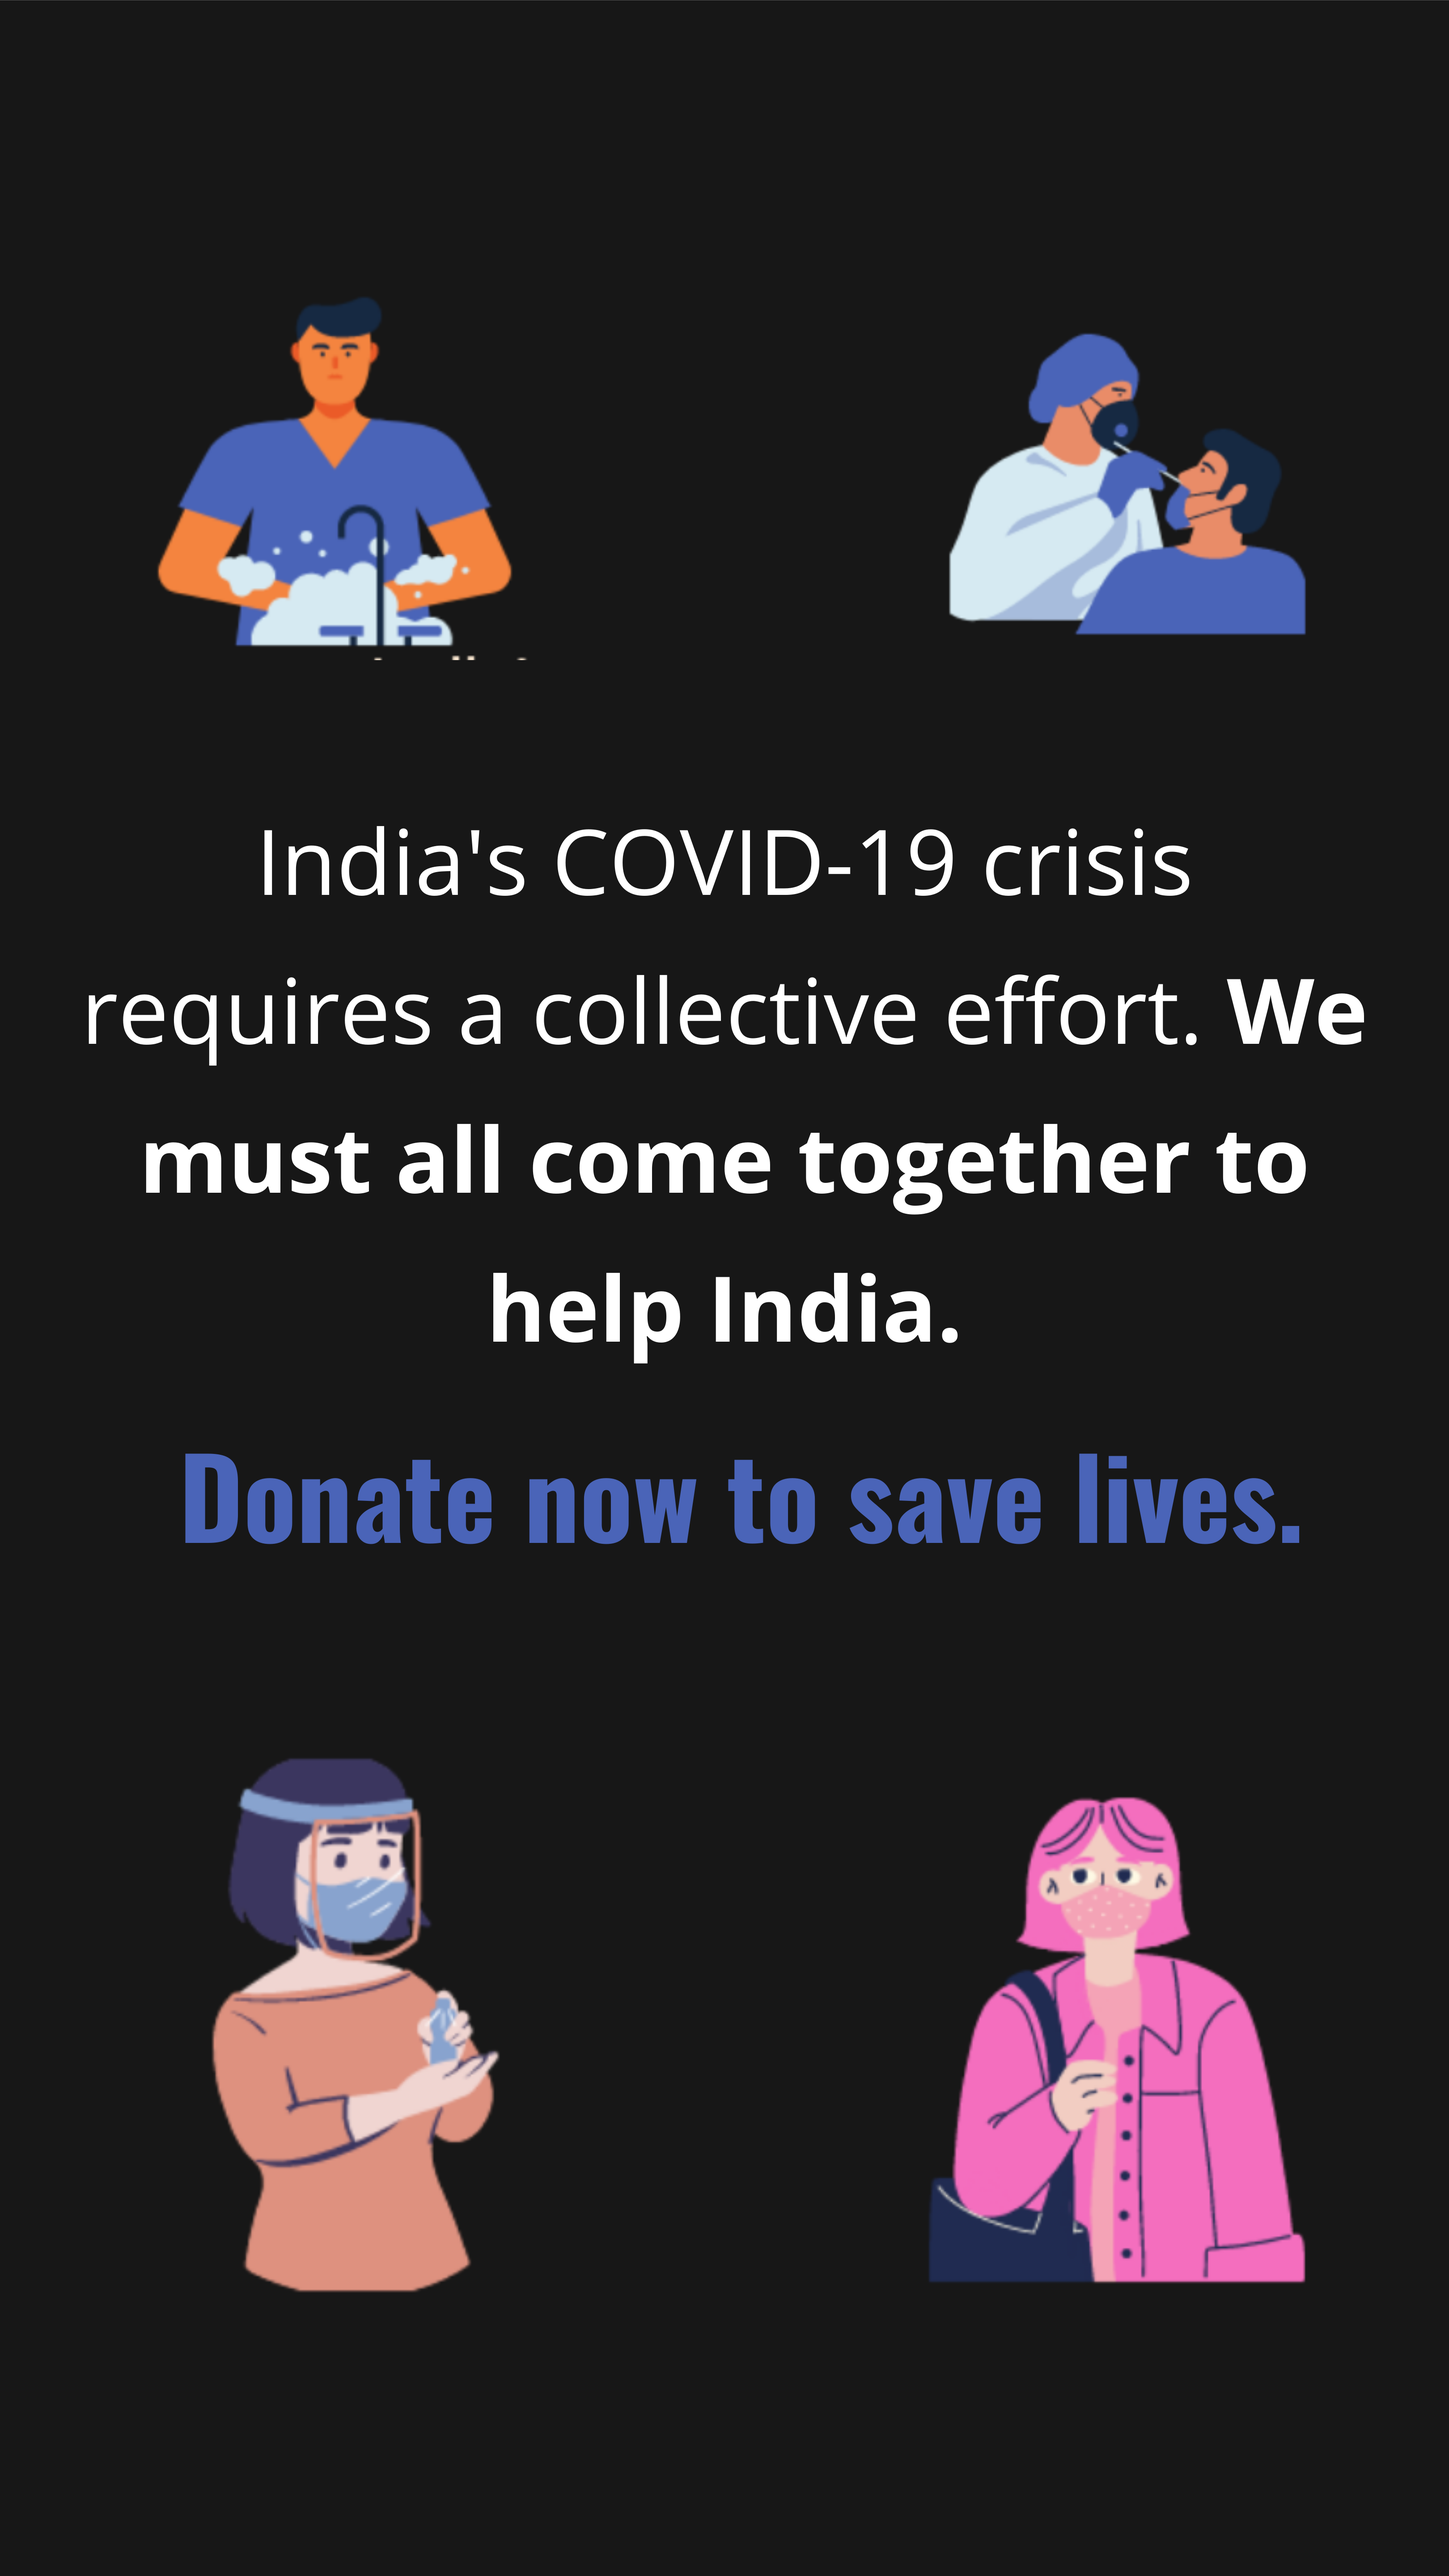
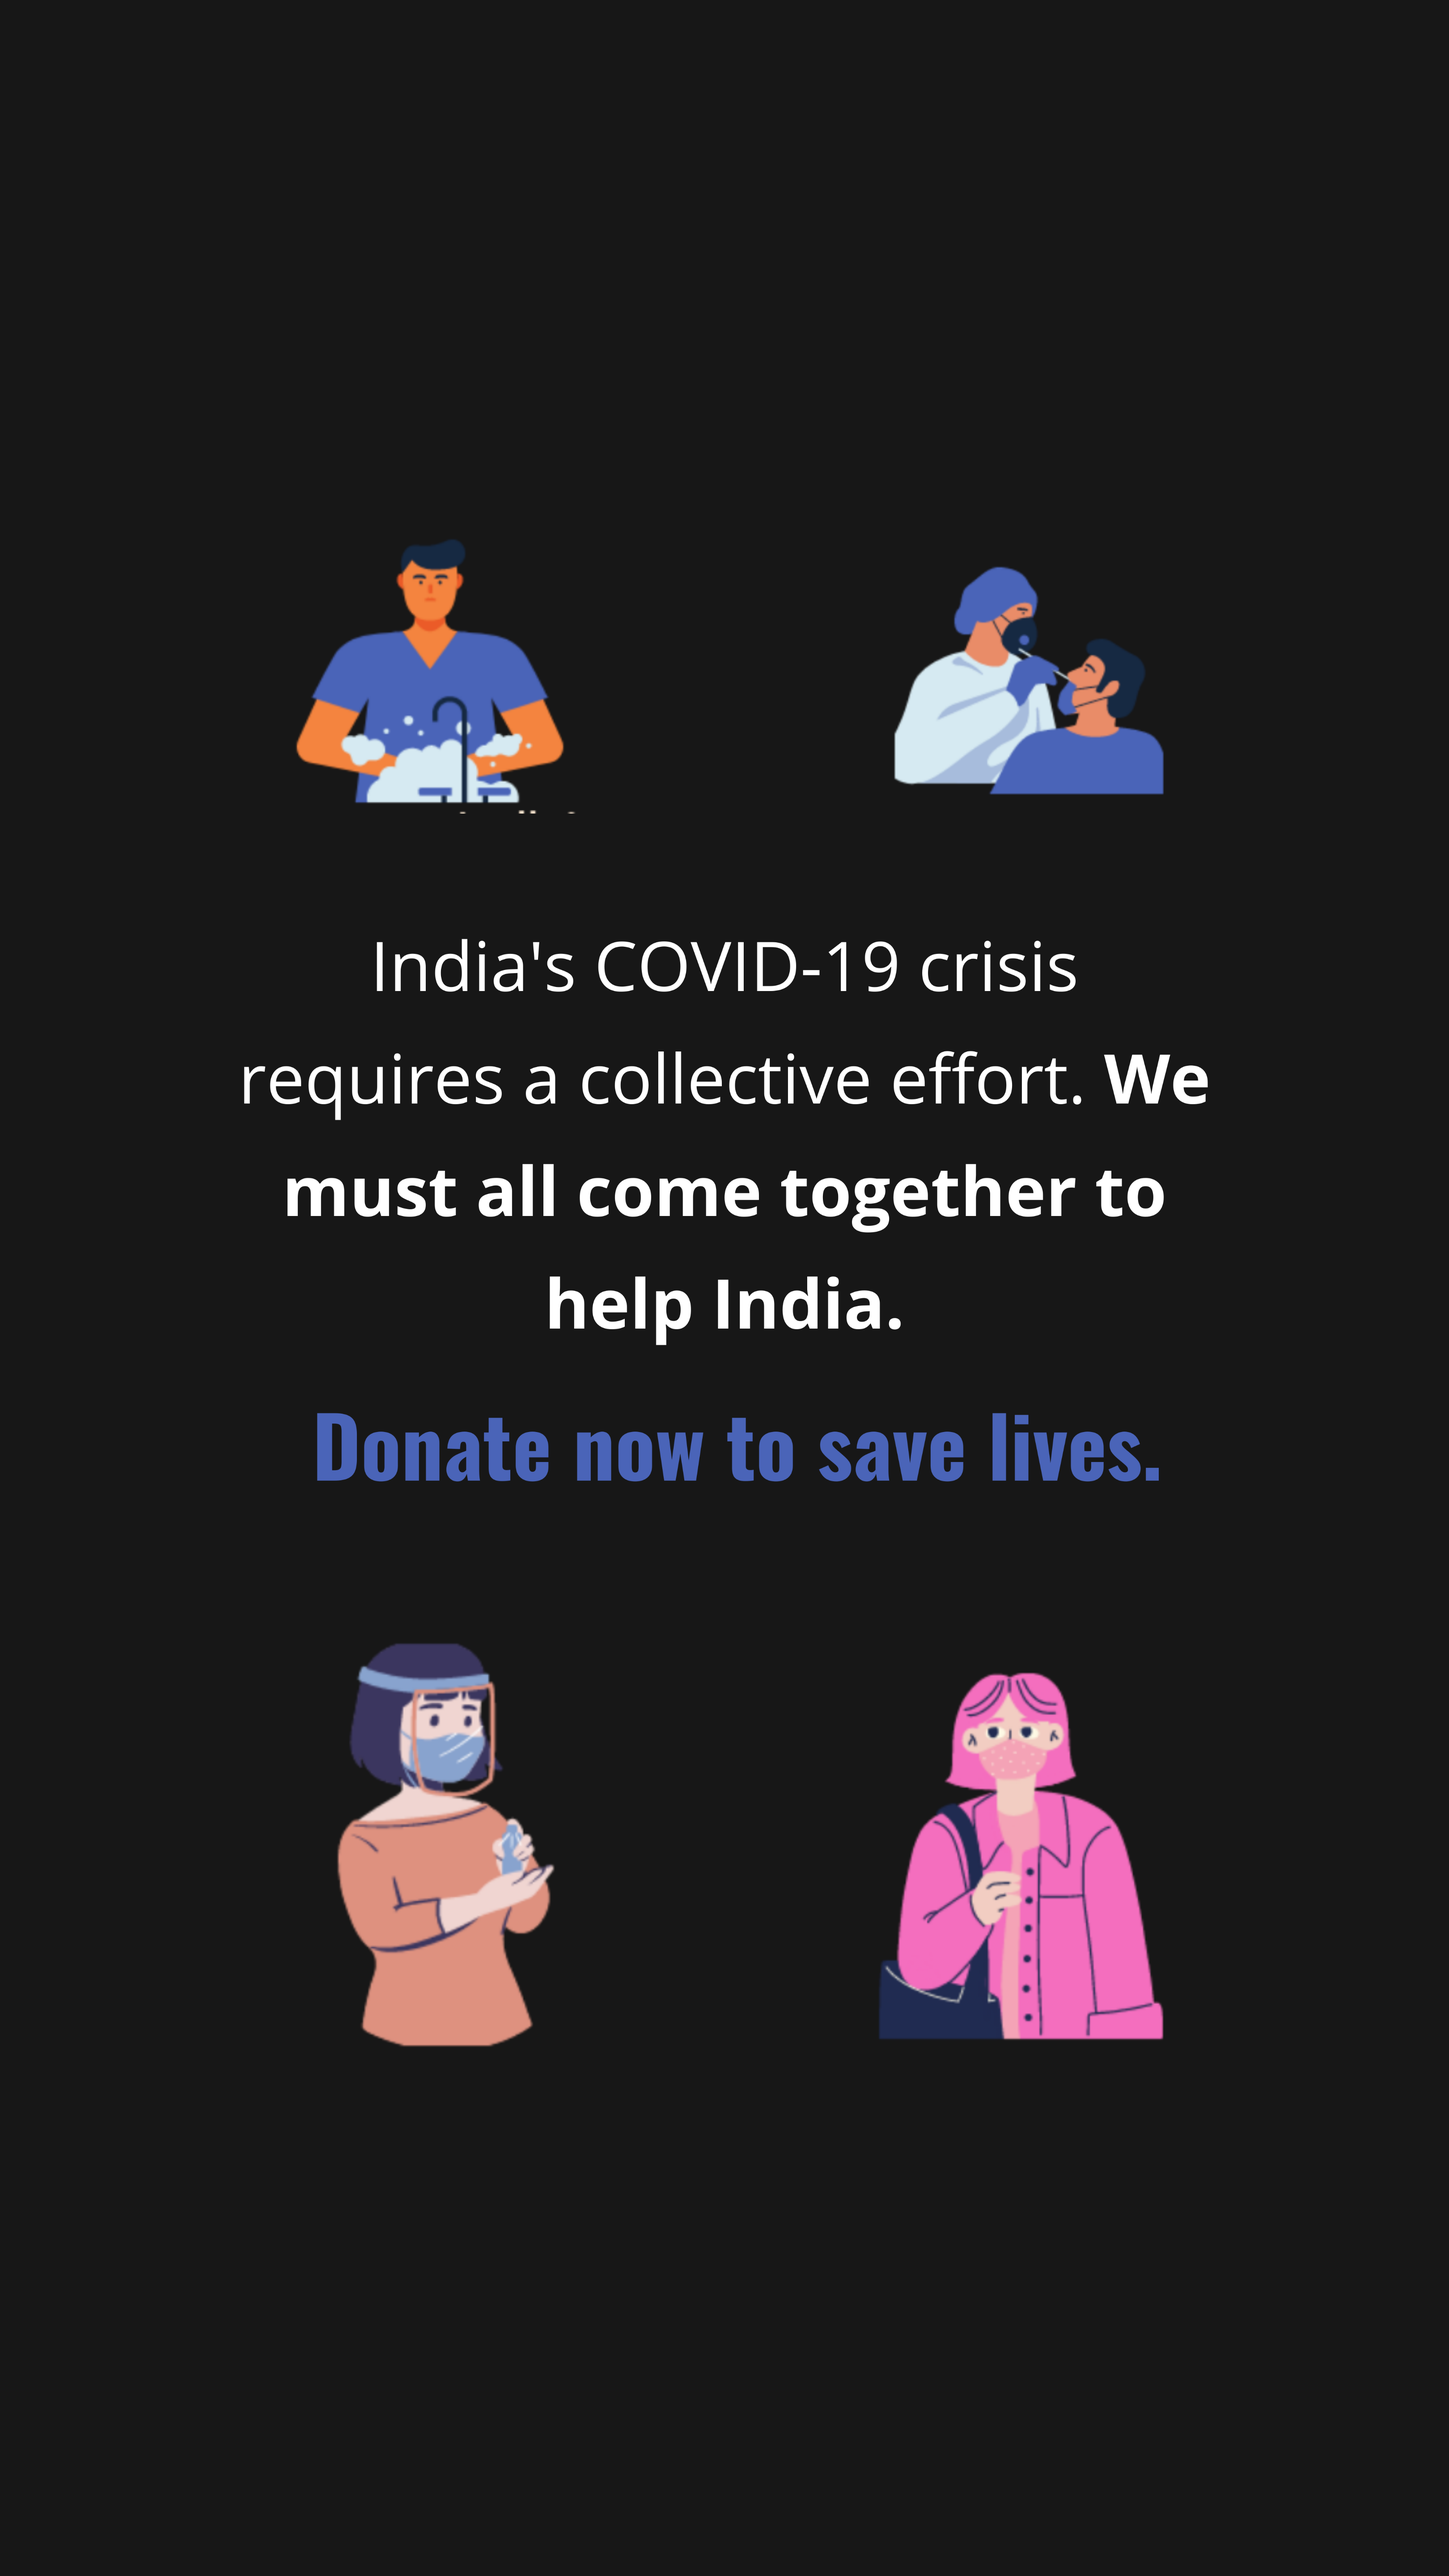
phn reponsive commit

Changed region(s): [[0.0623, 0.0938, 0.904, 0.9062], [0.8417, 0.375, 0.9352, 0.4062], [0.8417, 0.4375, 0.904, 0.4688]]

diff --git a/payment.html b/payment.html
@@ -1,21 +1,29 @@
 <html>
-    <head>
-        <title>PAYMENT GATEWAY </title>
-        <link rel="stylesheet" href="payment.css">
-      </head>
 
-      <body>
-        <div class="container"></div>
-      <div class="razorpay-embed-btn" data-url="https://pages.razorpay.com/pl_HJqxee8sBxRZRU/view" data-text="Donate Now To Save Life" data-color="#F80D0D" data-size="large">
-        <script>
-          (function(){
-            var d=document; var x=!d.getElementById('razorpay-embed-btn-js')
-            if(x){ var s=d.createElement('script'); s.defer=!0;s.id='razorpay-embed-btn-js';
-            s.src='https://cdn.razorpay.com/static/embed_btn/bundle.js';d.body.appendChild(s);} else{var rzp=window['__rzp__'];
-            rzp && rzp.init && rzp.init()}})();
-        </script>
-      </div>
-          
-      </body>
-          
-    </html>
+<head>
+  <title>COVIDENCE PAYMENT GATEWAY </title>
+  <link rel="stylesheet" href="payment.css">
+</head>
+
+<body>
+  <div class="container"> </div>
+    <div class="razorpay-embed-btn" data-url="https://pages.razorpay.com/pl_HJqxee8sBxRZRU/view"
+      data-text="Donate Now To Save Life" data-color="#F80D0D" data-size="large">
+      <script>
+        (function () {
+          var d = document; var x = !d.getElementById('razorpay-embed-btn-js')
+          if (x) {
+            var s = d.createElement('script'); s.defer = !0; s.id = 'razorpay-embed-btn-js';
+            s.src = 'https://cdn.razorpay.com/static/embed_btn/bundle.js'; d.body.appendChild(s);
+          } else {
+            var rzp = window['__rzp__'];
+            rzp && rzp.init && rzp.init()
+          }
+        })();
+      </script>
+    </div>
+ 
+
+</body>
+
+</html>

diff --git a/payment.css b/payment.css
@@ -10,9 +10,23 @@ body{
     align-items: center;
 }
 
+
 .razorpay-embed-btn{
     position: relative;
     margin-top: 300px;
+    
+}
+
+@media only screen and (min-device-width: 340px) and (max-device-width: 600px){
+
+body {
+    background-image: url(images/covid1-phn.png) !important;
+    background-size: cover;
+    display: flex;
+    justify-content: center;
+    align-items: center;
+   
+}
 }
 
 @media(max-width: 700px)
@@ -24,3 +38,4 @@ body{
     background-position: left;
   }
 }
+
